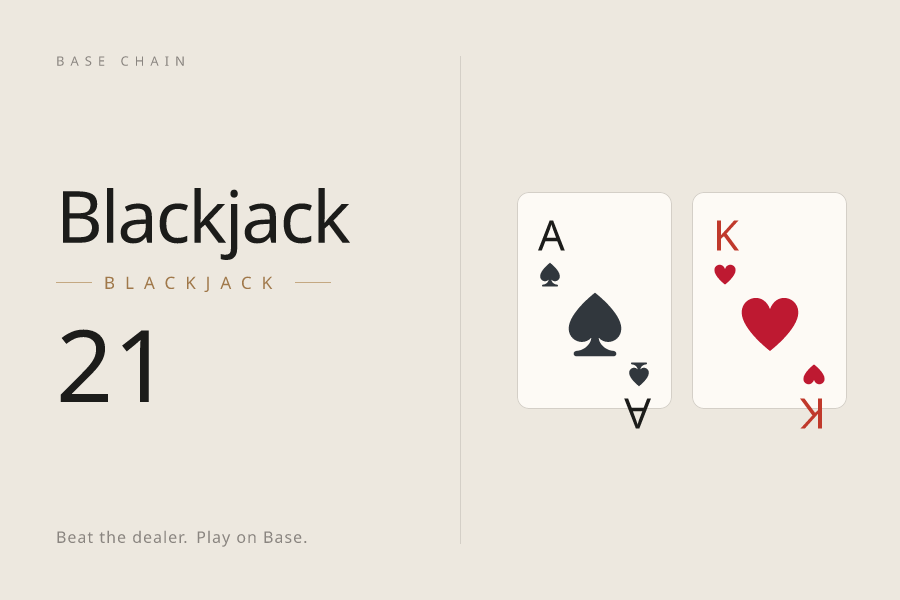
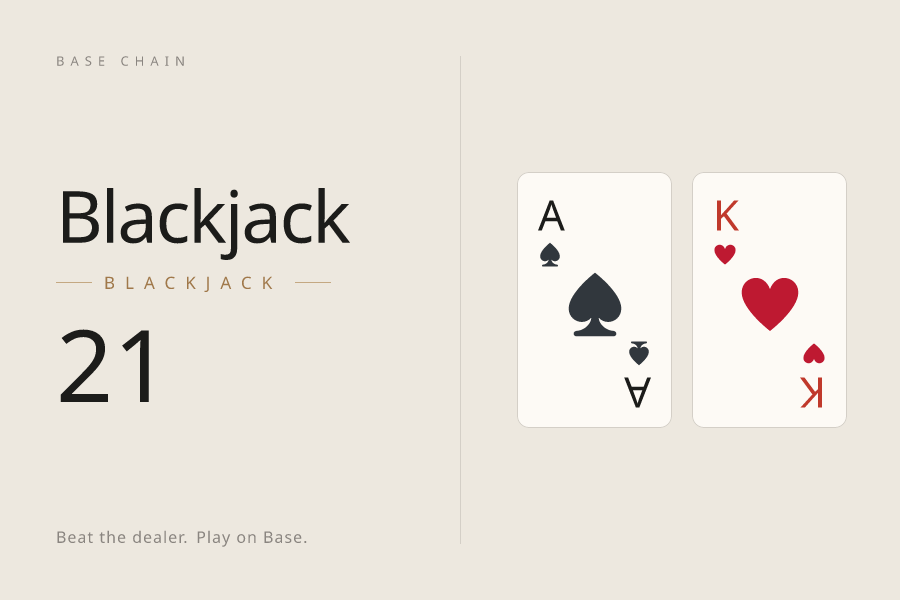
Fix card content overflow in all OG image routes
Satori space-between layout overflows when total child height exceeds
inner card height. Corrected by reducing pip fontSize or increasing
CARD_H so inner >= content in all four routes.

Changed region(s): [[0.7778, 0.33, 0.9333, 0.72], [0.6222, 0.45, 0.7467, 0.72], [0.5911, 0.33, 0.6222, 0.48]]

diff --git a/src/app/screenshot1.png/route.tsx b/src/app/screenshot1.png/route.tsx
@@ -43,7 +43,7 @@ export async function GET() {
           <div style={{ display: 'flex', fontSize: 38, color, lineHeight: 1 }}>{sym}</div>
         </div>
         <div style={{ display: 'flex', alignSelf: 'center' }}>
-          <div style={{ display: 'flex', fontSize: 108, color: pipColor, lineHeight: 1 }}>{sym}</div>
+          <div style={{ display: 'flex', fontSize: 90, color: pipColor, lineHeight: 1 }}>{sym}</div>
         </div>
         <div style={{ display: 'flex', flexDirection: 'column', gap: 2, alignSelf: 'flex-end', transform: 'rotate(180deg)' }}>
           <div style={{ display: 'flex', fontSize: 68, fontWeight: 700, color, lineHeight: 1 }}>{rank}</div>

diff --git a/src/app/screenshot2.png/route.tsx b/src/app/screenshot2.png/route.tsx
@@ -43,7 +43,7 @@ export async function GET() {
           <div style={{ display: 'flex', fontSize: 38, color, lineHeight: 1 }}>{sym}</div>
         </div>
         <div style={{ display: 'flex', alignSelf: 'center' }}>
-          <div style={{ display: 'flex', fontSize: 108, color: pipColor, lineHeight: 1 }}>{sym}</div>
+          <div style={{ display: 'flex', fontSize: 90, color: pipColor, lineHeight: 1 }}>{sym}</div>
         </div>
         <div style={{ display: 'flex', flexDirection: 'column', gap: 2, alignSelf: 'flex-end', transform: 'rotate(180deg)' }}>
           <div style={{ display: 'flex', fontSize: 68, fontWeight: 700, color, lineHeight: 1 }}>{rank}</div>

diff --git a/src/app/opengraph-image/route.tsx b/src/app/opengraph-image/route.tsx
@@ -7,7 +7,7 @@ export async function GET() {
   const W = 900;
   const H = 600;
   const CARD_W = 155;
-  const CARD_H = 217;
+  const CARD_H = 256; // inner=220px, content=200px → 20px breathing room (was 217→overflow)
   const CARD_R = 12;
 
   const SYM: Record<string, string> = { S: '♠', H: '♥', D: '♦', C: '♣' };

diff --git a/src/app/screenshot3.png/route.tsx b/src/app/screenshot3.png/route.tsx
@@ -8,7 +8,7 @@ export async function GET() {
   const H = 2778;
   const PAD = 64;
   const CARD_W = 220;
-  const CARD_H = 308;
+  const CARD_H = 320;
   const CARD_R = 16;
 
   const SYM: Record<string, string> = { S: '♠', H: '♥', D: '♦', C: '♣' };
